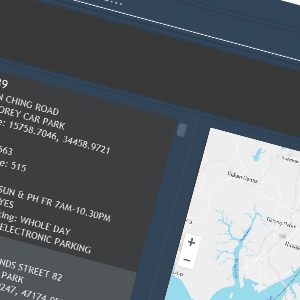
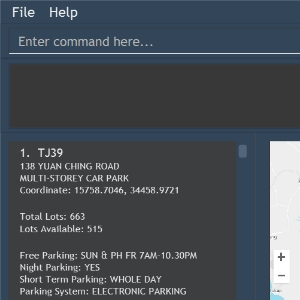
style change

diff --git a/scss/styles.scss b/scss/styles.scss
@@ -34,7 +34,7 @@
 */
 
 // Define base and accent colors
-$base-color: #3498db;
+$base-color: #494949;
 $base-color-hover: darken($base-color, 10%);
 
 // Define background colors
@@ -350,7 +350,7 @@ footer {
     height: 100vh;
     min-height: 500px;
     max-height: 1080px;
-    background: url(../images/lead-bg.jpg);
+    background: url(../images/lead-bg2.jpg);
     background-size: cover;
     padding: 15px;
     overflow: hidden;
